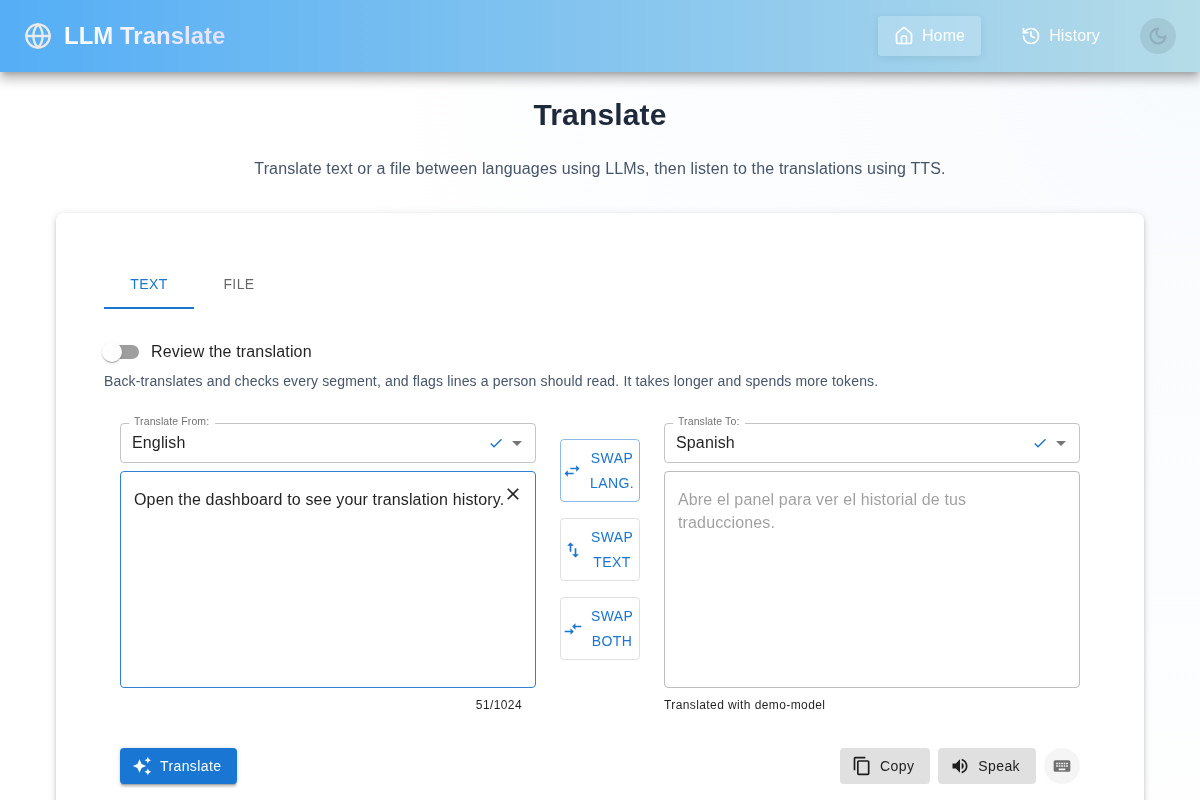
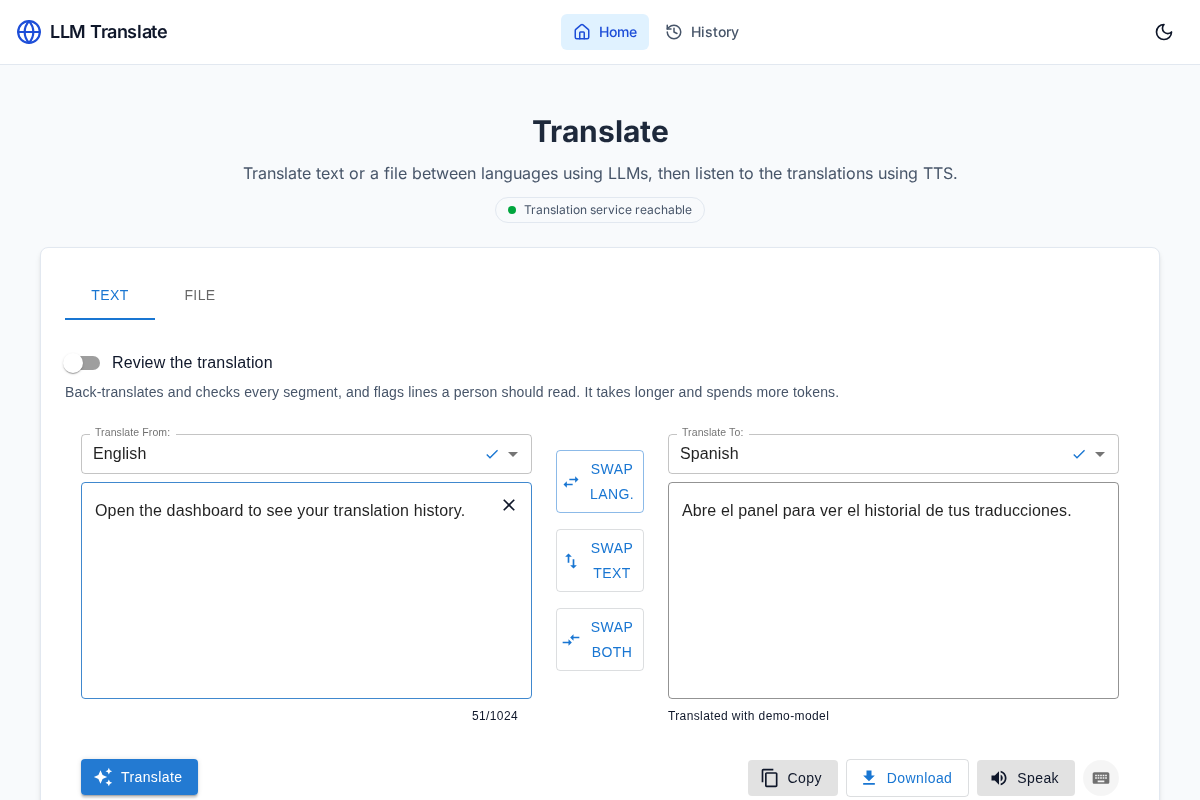
README Try it, screenshots and docs refresh (EST-5691) (#50)
README Quick Start becomes Try it (clone, compose up, no copy steps, where the key goes); screenshots refreshed with dark and phone-width images.

diff --git a/backend/tests/integration/test_readme.py b/backend/tests/integration/test_readme.py
@@ -87,22 +87,20 @@ def test_ci_example_is_a_workflow_that_posts_the_file_endpoint():
     assert "/v1/translate/file" in script and "jq -r .content" in script
 
 
-def test_quick_start_copies_both_env_files_before_compose_up():
-    quick = _section("## Quick Start")
+def test_quick_start_is_clone_and_compose_up_with_no_copy_steps():
+    quick = _section("## Quick Start (Try it)")
     commands = re.search(r"```bash\n(.*?)```", quick, re.S).group(1).splitlines()
-    assert commands == [
-        "cp backend/.env.example backend/.env",
-        "cp frontend/.env.example frontend/.env",
-        "docker compose up --build",
-    ]
+    assert commands[-1] == "docker compose up --build"
+    assert "http://localhost:3000" in quick and "LLM_API_KEY" in quick
+    assert "cp " not in quick
     compose = yaml.safe_load((REPO / "docker-compose.yml").read_text())["services"]
-    # Both copies are optional now (EST-5687): compose reads backend/.env when it exists,
-    # and frontend/.env is part of the frontend build context.
+    # backend/.env is optional (EST-5687), so a fresh clone starts without it.
     assert compose["backend"]["env_file"][0] == {"path": "./backend/.env", "required": False}
-    assert (REPO / "backend/.env.example").exists() and (REPO / "frontend/.env.example").exists()
 
 
 def test_screenshot_the_readme_shows_is_committed():
     assert "docs/images/translation-page.png" in README
-    assert (REPO / "docs/images/translation-page.png").stat().st_size > 10_000
+    for name in ("translation-page.png", "translation-page-dark.png", "translation-page-phone.png"):
+        assert f"docs/images/{name}" in README
+        assert (REPO / "docs/images" / name).stat().st_size > 10_000
     assert (REPO / "frontend/scripts/screenshot.mjs").exists()

diff --git a/README.md b/README.md
@@ -9,7 +9,7 @@ LLM Translate is an open-source translation tool that uses Large Language Models
 ## Table of Contents
 - [LLM Translate: Full Stack Application](#llm-translate-full-stack-application)
   - [Brief Description](#brief-description)
-  - [Quick Start](#quick-start)
+  - [Quick Start (Try it)](#quick-start-try-it)
   - [Features](#features)
   - [Project Structure](#project-structure)
   - [Requirements/Dependencies](#requirementsdependencies)
@@ -38,19 +38,28 @@ LLM Translate is an open-source tool that leverages Large Language Models (LLMs)
 
 ![The translation page: English text translated to Spanish](docs/images/translation-page.png)
 
-*The screenshot is captured by `frontend/scripts/screenshot.mjs` (Playwright against the real backend, whose model endpoint is a fake OpenAI server, so no key is shown). A short GIF of the page in use is supplied by the project owner and added by hand; it is not generated.*
+![The same page in dark mode](docs/images/translation-page-dark.png)
 
-## Quick Start
+![The page at phone width (375 px)](docs/images/translation-page-phone.png)
 
-Compose starts without any `.env` file; without a model key the page loads and says no key is set. To translate, put your model endpoint and key in `backend/.env` (or in a root `.env`, see `.env.example`), then start everything:
+*The screenshots (light, dark and phone width) are captured by `frontend/scripts/screenshot.mjs` (Playwright against the real backend, whose model endpoint is a fake OpenAI server, so no key is shown). A short GIF of the page in use is supplied by the project owner and added by hand; it is not generated.*
+
+## Quick Start (Try it)
 
 ```bash
-cp backend/.env.example backend/.env
-cp frontend/.env.example frontend/.env
+git clone https://github.com/samestrin/llm-translate.git && cd llm-translate
 docker compose up --build
 ```
 
-The page is at `http://localhost:3000` and the API at `http://localhost:8000` (`/docs` lists every route).
+Then open `http://localhost:3000`. The API is at `http://localhost:8000` (`/docs` lists every route). There is nothing to copy first.
+
+To translate, give it a model key: put `LLM_API_KEY=...` (and, for a vendor other than OpenAI, `LLM_BASE_URL` and `LLM_TRANSLATE_MODEL`) in a `.env` file next to `docker-compose.yml` (see `.env.example`), or pass it on the command line:
+
+```bash
+LLM_API_KEY=sk-... docker compose up --build
+```
+
+With no key the page still loads and says "No model key set" when you translate; nothing else breaks.
 
 ## Features
 
@@ -137,10 +146,8 @@ cd ..
 ### 4. Docker Compose (Recommended)
 This is the easiest way to get both the backend and frontend services running together. Ensure Docker and Docker Compose are installed. The `docker-compose.yml` file defines the services. It reads `backend/.env` when it exists, and `LLM_BASE_URL`, `LLM_API_KEY` and `LLM_TRANSLATE_MODEL` from the shell or a root `.env` (these win). Both ports listen on `127.0.0.1` only. For hot reload, add the dev override: `docker compose -f docker-compose.yml -f docker-compose.dev.yml up --build`.
 
-From the project root directory (`llm-translate/`):
+From the project root directory (`llm-translate/`), with no files to copy first (set `LLM_API_KEY` in a root `.env` or the shell to translate, see [Quick Start](#quick-start-try-it)):
 ```bash
-cp backend/.env.example backend/.env
-cp frontend/.env.example frontend/.env
 docker compose up --build
 ```
 To run in detached mode:
@@ -162,8 +169,9 @@ Once the backend and frontend are running (either individually or via Docker Com
 
 ## Configuration
 
-* **Backend**: Configured using environment variables in a `.env` file within the `backend` directory. See `backend/.env.example` and `backend/README.md` for details on required variables such as API keys for LLM providers.
-* **Frontend**: Configured using environment variables in a `.env` file within the `frontend` directory (e.g., `VITE_API_URL` to point to the backend). See `frontend/.env.example` and `frontend/README.md` for details. User-specific settings like dark/light mode theme preferences are also available in the application UI.
+* **Docker Compose**: `LLM_BASE_URL`, `LLM_API_KEY` and `LLM_TRANSLATE_MODEL` come from the shell or a root `.env` (see `.env.example`) and win over `backend/.env`. Neither file is required.
+* **Backend**: Configured using environment variables (a `.env` file within the `backend` directory is optional with Compose). See `backend/.env.example` and `backend/README.md` for details on required variables such as API keys for LLM providers.
+* **Frontend**: Configured using environment variables in an optional `.env` file within the `frontend` directory (e.g., `VITE_API_URL` to point to the backend). See `frontend/.env.example` and `frontend/README.md` for details. User-specific settings like dark/light mode follows your system until you pick one in the header.
 
 ## API Documentation
 

diff --git a/CHANGELOG.md b/CHANGELOG.md
@@ -13,6 +13,8 @@ All notable changes to this project are recorded here. The format follows [Keep 
 - The translation page has a state for each step, in text and file mode. Empty: a "Start here" box says what to do first and offers an example sentence that fills the text box (it does not translate on its own). Loading: a live status names the job ("Translating your text into Spanish…", "Translating messages.json into Spanish…"; the API reports no per-segment progress) while the button, language pickers and review switch are locked. Error: the server's message with a "Try again" button, a "No model key set" title when the backend says the key is missing, and a readable message instead of a raw HTTP status when the server sends none. Success: the result, copy, a new download (a `.txt` in text mode), and the report and review report. A small indicator under the title says whether the backend answers `GET /` (it calls no model). The source and result boxes are labelled, the result box is read-only instead of disabled, the swap buttons have full names, the file drop zone shows the keyboard focus of its hidden file input, and the page fits a 375 px phone in every state. The text box's clear button now clears. (EST-5689)
 - The unused "AI Provider" setting is removed from the Settings page (the page sends no provider; the server's `LLM_*` settings choose the model). The file picker and drop zone are disabled while a file is being translated, and the download link's blob URL is revoked after the click has been handled. Swapping the languages clears the glossary misses. (EST-5236)
 
+- README Quick Start is now "Try it": `git clone`, `docker compose up --build`, open `http://localhost:3000`, with no `cp` steps and a note on where to put a key and what happens without one. The translation-page screenshot is refreshed for the new UI, and dark-mode and phone-width images are added (`frontend/scripts/screenshot.mjs` captures all three against the fake OpenAI server). (EST-5691)
+
 ### Fixed
 
 - An error from `/v1/speak`, which arrives as a Blob, now shows its own message instead of a generic one, and a 422 `detail` list is read too. (EST-5236)
